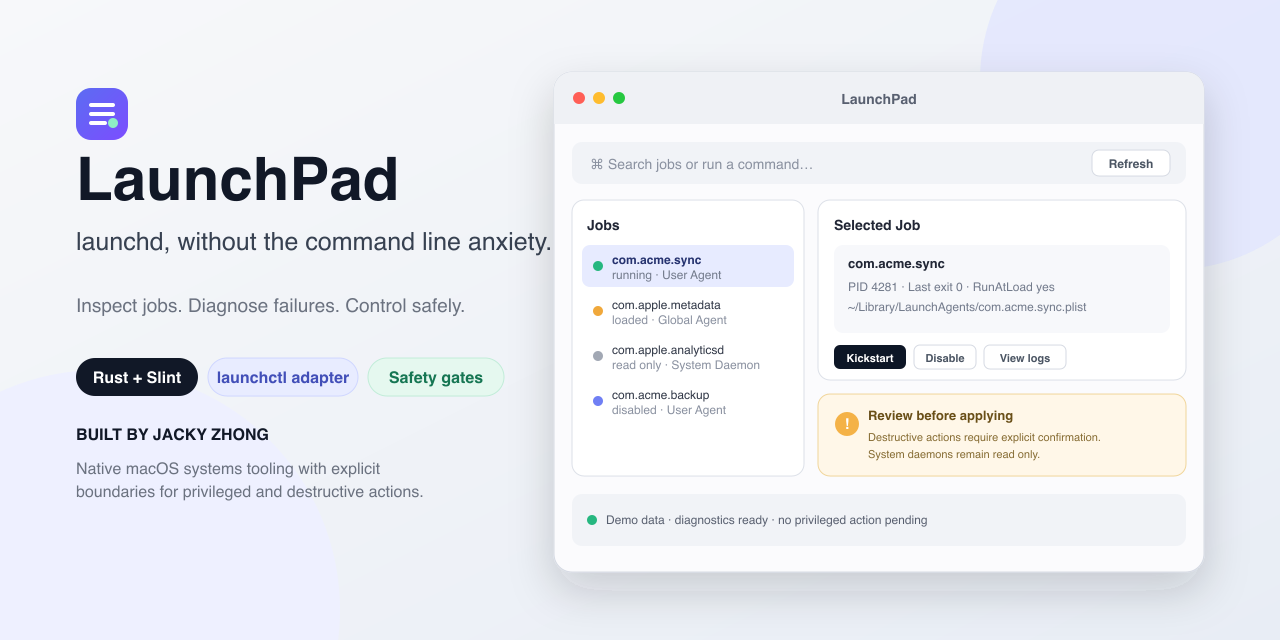
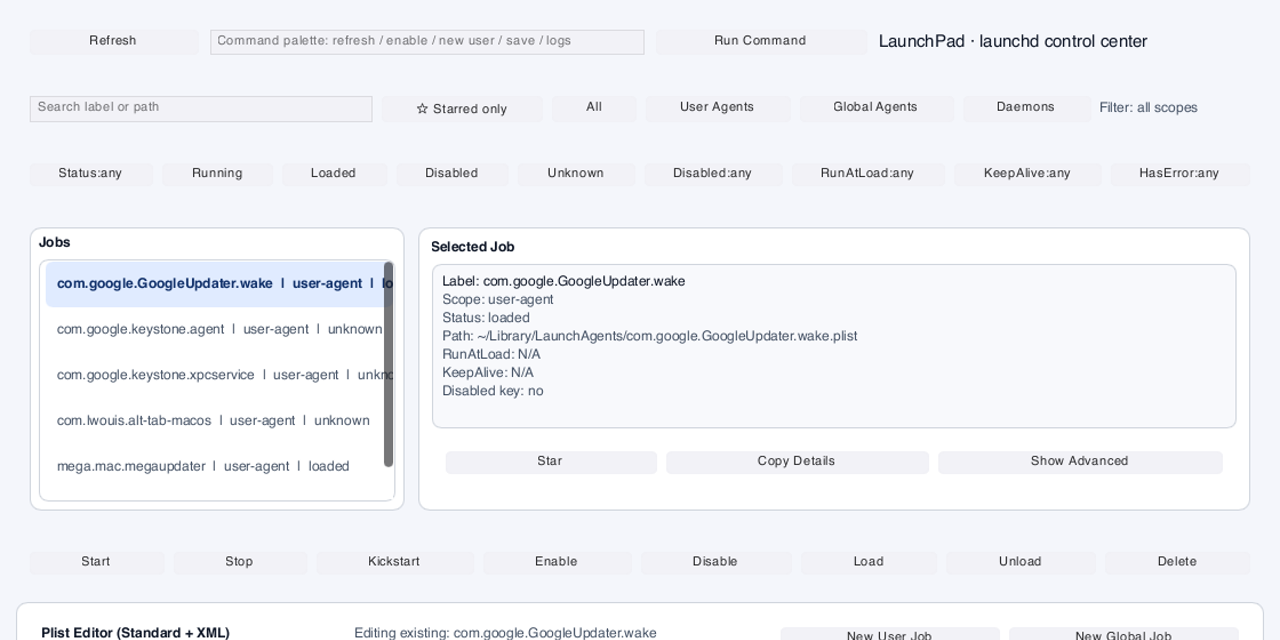
docs: show LaunchPad with real native UI (#6)

diff --git a/README.md b/README.md
@@ -1,5 +1,5 @@
 <p align="center">
-  <img src="docs/assets/launchpad-social-preview.png" alt="LaunchPad product overview showing launchd jobs, diagnostics, and guarded actions" width="100%">
+  <img src="docs/assets/launchpad-app.png" alt="LaunchPad running its native Slint interface with real macOS user LaunchAgents" width="100%">
 </p>
 
 <h1 align="center">LaunchPad</h1>
@@ -13,7 +13,7 @@
   <a href="LICENSE"><img src="https://img.shields.io/badge/license-MIT-167653" alt="MIT license"></a>
 </p>
 
-<p align="center"><sub>Code-native product overview based on the current Slint interface. Demo data is shown.</sub></p>
+<p align="center"><sub>Rendered from the current Slint interface with real, non-sensitive user LaunchAgents on macOS. The home path is abbreviated.</sub></p>
 
 ## What I engineered
 
